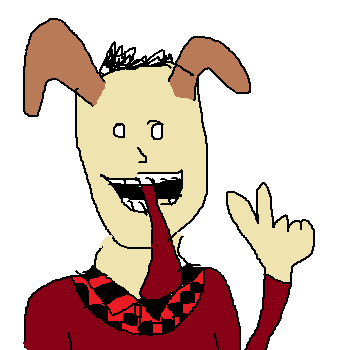
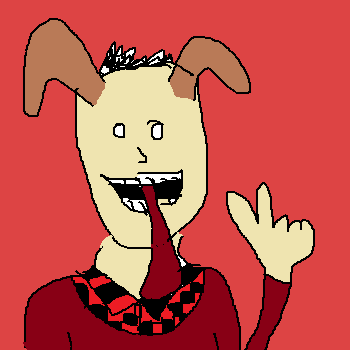
Adding top bar and changing about me to red

diff --git a/index.html b/index.html
@@ -8,6 +8,7 @@
             
             <link href='http://fonts.googleapis.com/css?family=Lato&subset=latin,latin-ext' rel='stylesheet' type='text/css'>
                 <link href='https://fonts.googleapis.com/css?family=Lobster' rel='stylesheet' type='text/css'>
+				<link href="https://fonts.googleapis.com/icon?family=Material+Icons" rel="stylesheet">
                 
                 <script type="text/javascript">
                 function getAge(){
@@ -70,11 +71,77 @@
                 text-align: center;
                 }
                 
+				header{
+				display: flex;
+				box-shadow: 0 0 4px 2px rgba(0, 0, 0, 0.06);
+				padding: 8px;
+				width: 100%;
+				box-sizing: border-box;
+				}
+
+				.header{
+					flex: 1;
+					display: inline;
+					vertical-align: middle;
+					font-size: 28px;
+					color: white;
+					font-weight: bold;
+				}
+
+				.header i{
+					font-size: 32px;
+				}
+
+				.header b{
+					padding-top: 12px;
+					padding-left: 10px;
+					font-family: 'Lobster', sans-serif;
+				}
+
+				.header img{
+					width: 48px;
+					height: 48px;
+					vertical-align:middle;
+				}
+
+				.header a{
+					color: white;
+					text-decoration: none;
+				}
+				.header a:hover{
+					color: #fb0;
+					text-decoration: none;
+				}
+				
+				#about-me{
+				margin-top: 0; 
+				margin-bottom: 1.5em; 
+				width: 100%;
+				border: solid #e0e0e0 1px;
+				border-radius: 5px;
+				padding: 16px;
+				box-sizing: border-box;
+				box-shadow: 0 0 10px 2px rgba(0, 0, 0, 0.06);
+				background: white;
+				}
+				
                 .section{
                 min-height: 200px;
                 width: 100%;
                 text-align: center;
                 }
+
+				.left{
+					text-align: left;
+				}
+
+				.center{
+					text-align: center;
+				}
+
+				.right{
+					text-align: right;
+				}
                 
                 .content{
                 margin: auto;
@@ -85,17 +152,14 @@
                 #social-media-holder{
                 text-align: center;
                 font-size: 6 !important;
-                background: #DCA;
+                background: #85f;
                 position: fixed;
                 right: 0;
-                top: 20%;
+                bottom: 0;
                 border-top-left-radius: 20px;
-                border-bottom-left-radius: 20px;
-                padding-top: 10px;
-                padding-bottom: 10px;
-                padding-left: 10px;
-                padding-right: 5px;
+                padding: 4px;
                 opacity: 0.85;
+				display: flex;
                 
                 -webkit-transition:500ms ease-out;
                 -moz-transition:500ms ease-out;
@@ -106,21 +170,22 @@
                 
                 .social-media{
                 background: #8af;
-                height: 30px;
-                width: 30px;
+                height: 24px;
+                width: 24px;
                 margin: 10px;
                 }
                 
                 .red{
                 background: #D44;
+				color: white;
                 }
-                .red a:link, a:visited{
+                .red-link-section a:link, a:visited{
                 background: #FA6E6E;
                 box-shadow: 0 0 8px #a11;
                 border-bottom: 5px solid #C22;
                 border-right: 2px solid #C22;
                 }
-                .red a:hover, a:active{
+                .red-link-section a:hover, a:active{
                 background: #FF9A9A;
                 }
                 .orange{
@@ -313,47 +378,82 @@
                 
                 <body>
                 
-                <div id="social-media-holder" style="display:none;">
-                follow<br>me
-                <div class="social-media">face</div>
-                <div class="social-media">twit</div>
-                <div class="social-media">link</div>
-                <div class="social-media">yout</div>
-                <div class="social-media">insta</div>
-                <div class="social-media">tumb</div>
-                <a onclick="hideSocialMedia()">hide</button>
+                <div id="social-media-holder">
+					follow me
+					<span>
+						<a href="https://www.facebook.com/dylan.weicker"><img src="https://cdn3.iconfinder.com/data/icons/free-social-icons/67/facebook_circle_color-32.png"></a>
+						<a href="https://www.instagram.com/nifflr/"><img src="https://cdn3.iconfinder.com/data/icons/picons-social/57/78-instagram-32.png"></a>
+						<a href="https://ca.linkedin.com/in/dylan-weicker-3b9809111"><img src="https://cdn3.iconfinder.com/data/icons/free-social-icons/67/linkedin_circle_black-32.png"></a>
+						<a href="https://www.youtube.com/channel/UCkdHp9NQS5SzvlmTBpDoMVA"><img src="https://cdn0.iconfinder.com/data/icons/rounded-solid-social-media-set-1/144/Youtube_Rounded_Solid-32.png"></a>
+						<a href="https://dylanpride.tumblr.com"><img src="https://cdn2.iconfinder.com/data/icons/black-white-social-media/32/online_social_media_tumblr-32.png"></a>
+						<a href="https://github.com/DylanPride"><img src="https://cdn0.iconfinder.com/data/icons/octicons/1024/mark-github-32.png"></a>
+					</span>
                 </div>
-                
-                <div class="section">
-                <center>
-                <div class="content" style="padding-bottom: 0 !important;">
-                <h1>Dylan Pride</h1>
-                <div class="welcome flex-container">
-                <div class="two-col" style="padding-bottom: 0; margin-bottom: 0;">
-                <img src="me-sketch.png" width="100%" style="vertical-align: bottom;">
-                </div>
-                <div class="two-col" style="vertical-align: middle;">
-                <center>
-                <h2>Hello There!</h2>
-                <p>Welcome to my personal website! My name is Dylan and I am proud of everything I do.</p>
-                <p>I'm a <script type="text/javascript">document.write(getAge())</script> year old software developer, born and raised in beautiful Vancouver. Scrolling through this rainbow will reveal my skills and interests as well as some personal projects I have created.</p>
-                <span>
-                  <a href="https://www.facebook.com/dylan.weicker"><img src="https://cdn3.iconfinder.com/data/icons/free-social-icons/67/facebook_circle_color-32.png"></a>
-                  <a href="https://www.instagram.com/nifflr/"><img src="https://cdn3.iconfinder.com/data/icons/picons-social/57/78-instagram-32.png"></a>
-                  <a href="https://ca.linkedin.com/in/dylan-weicker-3b9809111"><img src="https://cdn3.iconfinder.com/data/icons/free-social-icons/67/linkedin_circle_black-32.png"></a>
-                  <a href="https://www.youtube.com/channel/UCkdHp9NQS5SzvlmTBpDoMVA"><img src="https://cdn0.iconfinder.com/data/icons/rounded-solid-social-media-set-1/144/Youtube_Rounded_Solid-32.png"></a>
-                  <a href="https://dylanpride.tumblr.com"><img src="https://cdn2.iconfinder.com/data/icons/black-white-social-media/32/online_social_media_tumblr-32.png"></a>
-                  <a href="https://github.com/DylanPride"><img src="https://cdn0.iconfinder.com/data/icons/octicons/1024/mark-github-32.png"></a>           </span>
-                </center>
-                </div>
-                </div>
-                </div>
-                </center>
+				
+                <header class="red">
+					<div class="header left" style="vertical-align: center;">
+						<a href="/"><img src="images/dplogo.png"><b>Dylan Pride</b></a>
+					</div>
+					<div class="header right">
+						<i class="material-icons">menu</i>
+					</div>
+				</header>
+				
+                <div class="red section">
+					<center>
+						<div class="content" style="padding-bottom: 0 !important;">
+						<h1>Hello There !</h1>
+						<div class="welcome flex-container">
+							<div class="two-col" style="padding-bottom: 0; margin-bottom: 0;">
+								<img src="me-sketch.png" width="100%" style="vertical-align: bottom;">
+							</div>
+							<div class="two-col" style="vertical-align: middle;">
+								<center>
+								<h3>My name is Dylan and I am proud of everything I do.</h3>
+								<p>I'm a <script type="text/javascript">document.write(getAge())</script> year old software developer, born and raised in beautiful Vancouver. Scrolling through this rainbow will reveal my skills and interests as well as some personal projects I have created.</p>
+								<span>
+								  <a href="https://www.facebook.com/dylan.weicker"><img src="https://cdn3.iconfinder.com/data/icons/free-social-icons/67/facebook_circle_color-32.png"></a>
+								  <a href="https://www.instagram.com/nifflr/"><img src="https://cdn3.iconfinder.com/data/icons/picons-social/57/78-instagram-32.png"></a>
+								  <a href="https://ca.linkedin.com/in/dylan-weicker-3b9809111"><img src="https://cdn3.iconfinder.com/data/icons/free-social-icons/67/linkedin_circle_black-32.png"></a>
+								  <a href="https://www.youtube.com/channel/UCkdHp9NQS5SzvlmTBpDoMVA"><img src="https://cdn0.iconfinder.com/data/icons/rounded-solid-social-media-set-1/144/Youtube_Rounded_Solid-32.png"></a>
+								  <a href="https://dylanpride.tumblr.com"><img src="https://cdn2.iconfinder.com/data/icons/black-white-social-media/32/online_social_media_tumblr-32.png"></a>
+								  <a href="https://github.com/DylanPride"><img src="https://cdn0.iconfinder.com/data/icons/octicons/1024/mark-github-32.png"></a>          
+								</span>
+								</center>
+							</div>
+						</div>
+						<div id="about-me">
+							<h2>About me</h2>
+						</div>
+						<h2>These Are A Few Of My Favourite Things</h2>
+						<div class="flex-container red-link-section">
+							<a class="five-col-flex" href="#goals">
+								<h3>Technology</h3>
+								<img src="die.png" class="icon">
+							</a>
+							<a class="five-col-flex" href="#goals">
+								<h3>Games</h3>
+								<img src="die.png" class="icon">
+							</a>
+							<a class="five-col-flex" href="#goals">
+								<h3>Social Justice</h3>
+								<img src="die.png" class="icon">
+							</a>
+							<a class="five-col-flex" href="#goals">
+								<h3>Pop Culture</h3>
+								<img src="die.png" class="icon">
+							</a>
+							<a class="five-col-flex" href="#goals">
+								<h3>Goals</h3>
+								<img src="die.png" class="icon">
+							</a>
+						</div>
+					</center>
                 </div>
                 
                 <div class="rainbow"></div>
                 
-                <div class="red section">
+                <div class="red section red-link-section">
                 <div class="content">
                                 <h2>These Are A Few Of My Favourite Things</h2>
                                 <div class="wrap flex-container">
